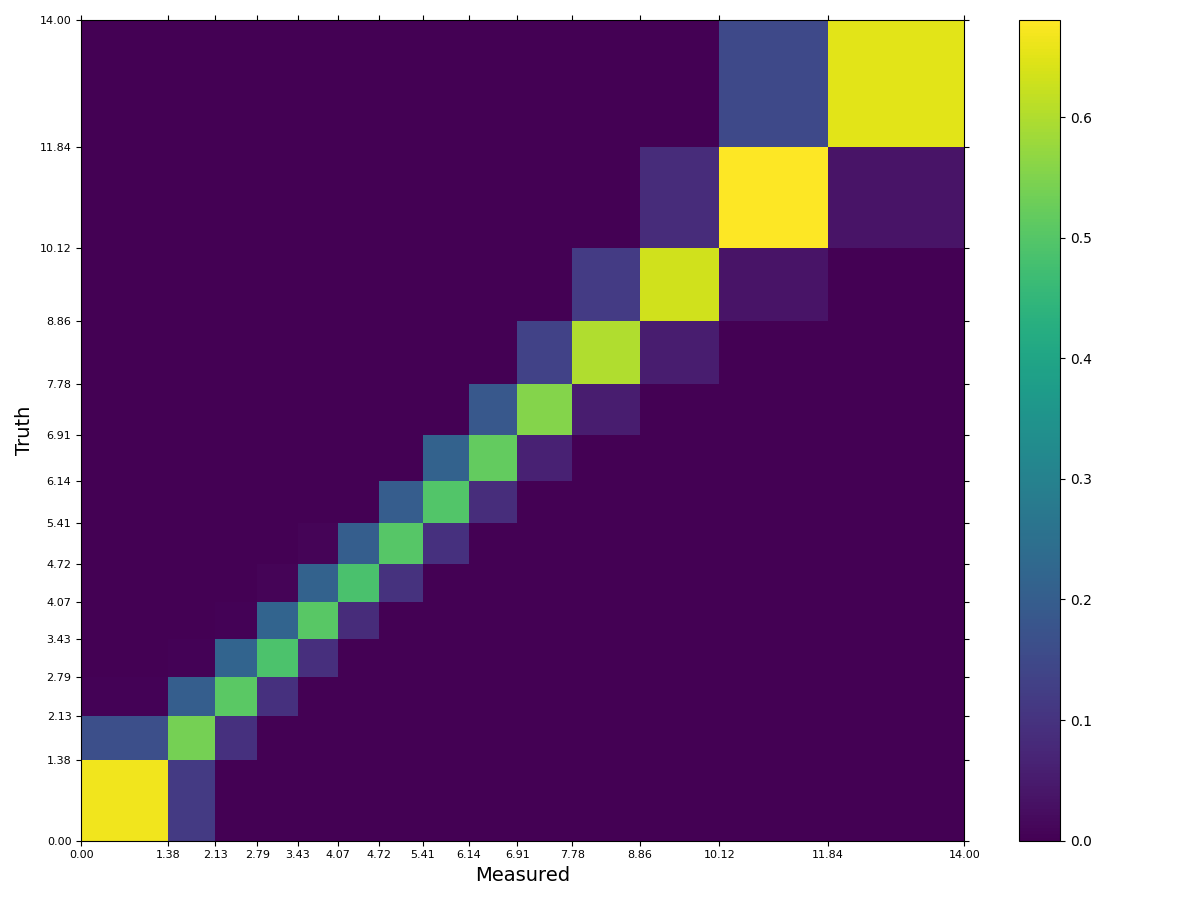
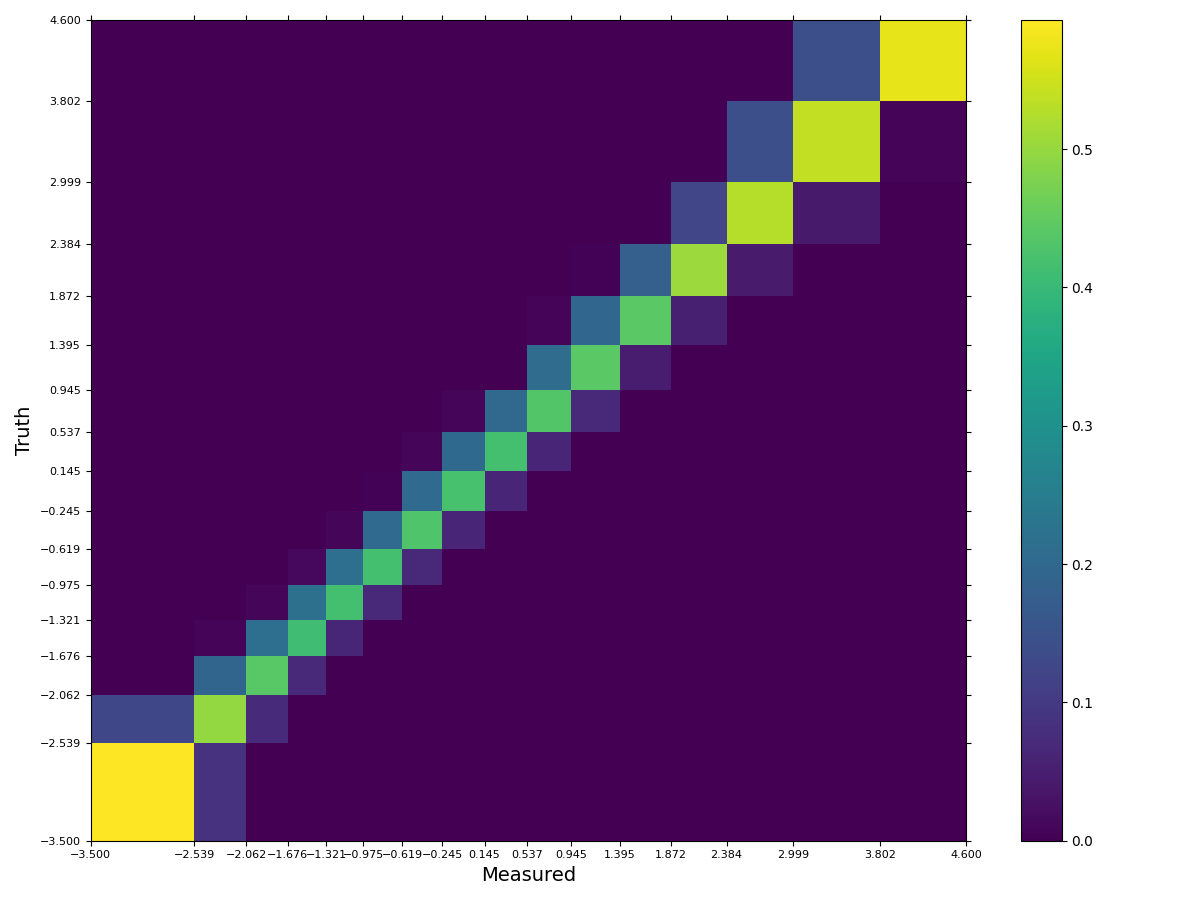
Minor edit to unfolding example

diff --git a/examples/simneal_script.py b/examples/simneal_script.py
@@ -1,4 +1,5 @@
 import numpy as np
+from scipy import stats
 from sklearn.preprocessing import KBinsDiscretizer
 from qunfold import QUnfolder, QPlotter
 from qunfold.utils import normalize_response, lambda_optimizer
@@ -10,20 +11,21 @@ np.random.seed(seed)
 
 # Set parameters for synthetic data generation
 entries = 20000
-bins = 14
-xmin, xmax = 0.0, 14.0  # xaxis range
-kappa, theta = 4.0, 1.0  # gamma distribution
-mu_smear, std_smear = -0.1, 0.3  # gaussian smearing
-efficiency = 0.8  # constant efficiency
+bins = 16
+xmin, xmax = -3.5, 4.6
+loc, scale = -2.0, 1.9
+skewness = 3.6
+mu_smear, std_smear = -0.08, 0.17
+efficiency = 0.7  # same for all bins
 
 # Generate Monte Carlo truth and reco data (with Gaussian smearing)
-truth_mc_data = np.random.gamma(kappa, theta, size=entries)
+truth_mc_data = stats.skewnorm.rvs(skewness, loc=loc, scale=scale, size=entries)
 smearing_mc = np.random.normal(mu_smear, std_smear, size=entries)
 eff_mask_mc = np.random.rand(entries) < efficiency
 reco_mc_data = (truth_mc_data + smearing_mc)[eff_mask_mc]
 
 # Generate unknown truth and measured data (with Gaussian smearing)
-truth_data = np.random.gamma(kappa, theta, size=entries)
+truth_data = stats.skewnorm.rvs(skewness, loc=loc, scale=scale, size=entries)
 smearing = np.random.normal(mu_smear, std_smear, size=entries)
 eff_mask = np.random.rand(entries) < efficiency
 measured_data = (truth_data + smearing)[eff_mask]

diff --git a/src/qunfold/qunfolder.py b/src/qunfold/qunfolder.py
@@ -60,15 +60,17 @@ class QUnfolder:
         return (self.R.T @ self.R) + self.lam * (L.T @ L)
 
     def _get_laplacian(self):
-        with np.errstate(invalid="ignore"):
-            xmid = self.binning[:-1] + 0.5 * np.diff(self.binning)
-        n = len(xmid)
+        x = (self.binning[:-1] + self.binning[1:]) / 2
+        n = len(x)
         L = np.zeros(shape=(n, n))
-        dx = np.diff(xmid)
-        for i in range(2, n - 2):
-            L[i, i - 1] = 2 / (dx[i - 1] * (dx[i - 1] + dx[i]))
-            L[i, i] = -2 / (dx[i - 1] * dx[i])
-            L[i, i + 1] = 2 / (dx[i] * (dx[i - 1] + dx[i]))
+        for i in range(1, n - 1):
+            h1 = x[i] - x[i - 1]
+            h2 = x[i + 1] - x[i]
+            L[i, i - 1] = 2 / (h1 * (h1 + h2))
+            L[i, i] = -2 / (h1 * h2)
+            L[i, i + 1] = 2 / (h2 * (h1 + h2))
+        L[0, :] = L[1, :]
+        L[-1, :] = L[-2, :]
         L = 2 * L / np.max(np.abs(L))
         return L
 
